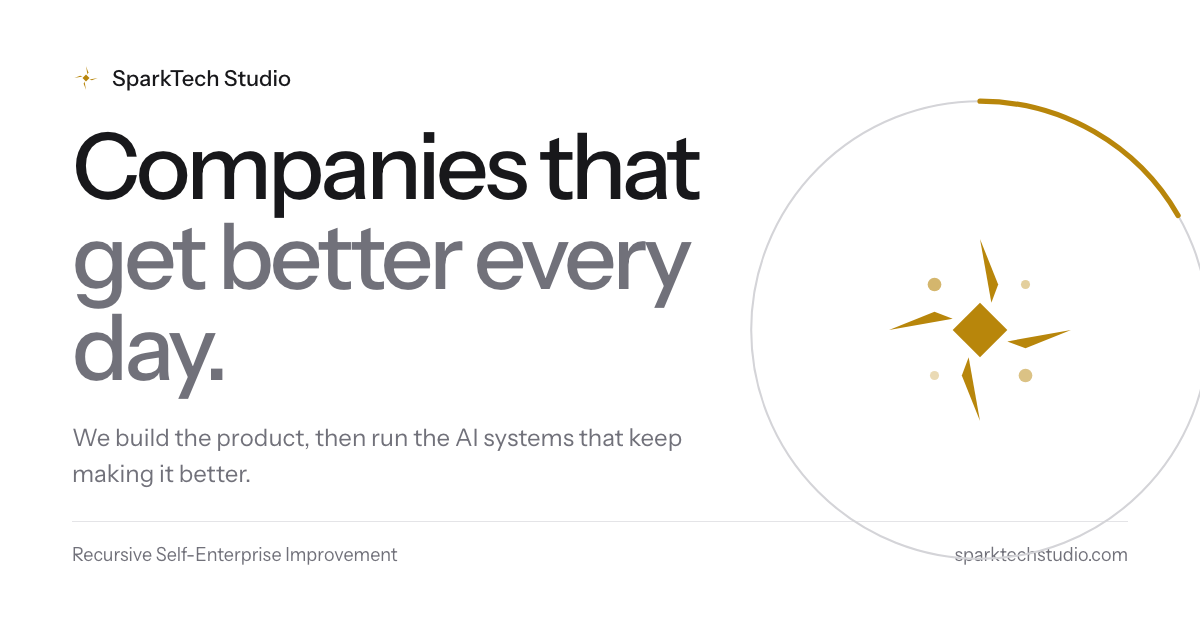
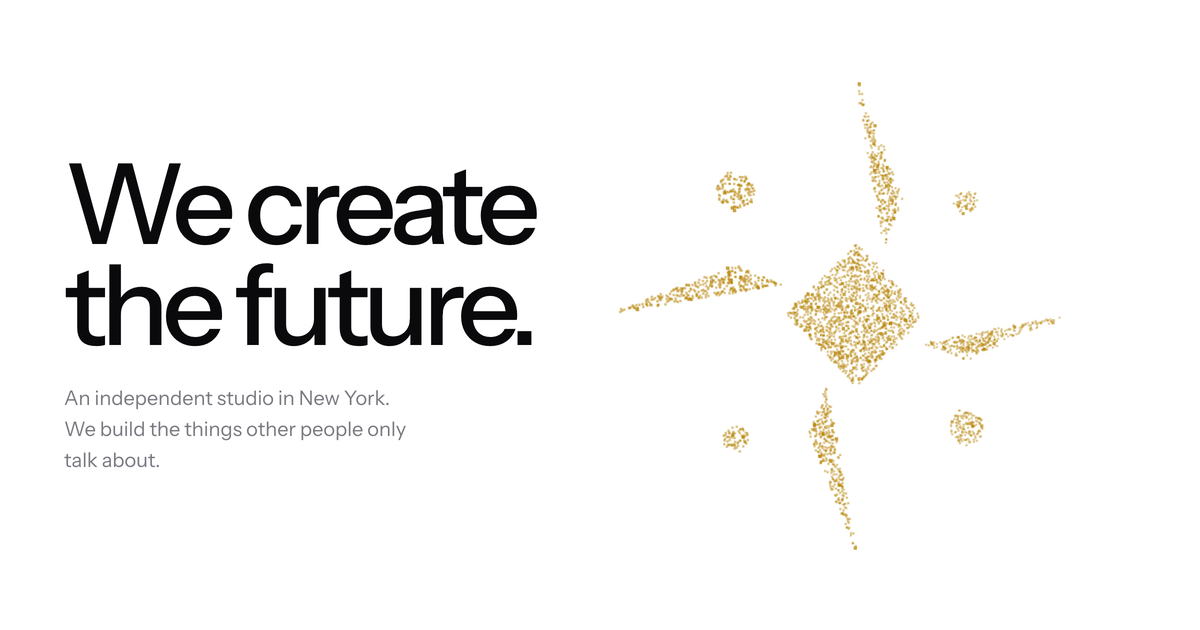
Set the legal name, regenerate the share card, and match Leed and BallotWatch spellings
Copyright lines and the Organization JSON-LD now name SparkTech Studios, Inc.
The share card is captured from the live hero. Leed and BallotWatch are spelled
the way their own sites spell them. UTern's coming item reads "Applications,
sent once you approve them", in line with its live site.

diff --git a/src/designs/content.jsx b/src/designs/content.jsx
@@ -13,25 +13,25 @@ export const companies = [
     lede: 'Birdee, UTern’s AI, finds students real internships that fit and brings companies the students who fit their role. Companies see evidence, never scores.',
     visionTitle: <>The climb, <em>start to summit.</em></>,
     today: ['Only the internships that fit you', 'Everything you do becomes a skill', 'Prove it in a conversation with Birdee', 'Apply with Birdee, side by side', 'Just graduated? Full-time roles too', 'Companies come to you. You say yes before they see you'],
-    vision: ['Classes, handled', 'Paid projects, for credit', 'Applications, sent for you', 'Hire from real work, any role', 'One view for the career office', 'Your transcript, read'],
+    vision: ['Classes, handled', 'Paid projects, for credit', 'Applications, sent once you approve them', 'Hire from real work, any role', 'One view for the career office', 'Your transcript, read'],
     visual: 'climb', note: 'UTern is an independent company. Coming items are the vision, not shipped features.',
   },
   {
-    slug: 'leed', name: 'LEED', host: 'leed.media', url: 'https://www.leed.media', line: 'Every tip, read and kept safe.',
+    slug: 'leed', name: 'Leed', host: 'leed.media', url: 'https://www.leed.media', line: 'Every tip, read and kept safe.',
     theme: { '--c-bg': '#0b0b09', '--c-accent': '#e9e4d6', '--c-mute': 'rgba(240,236,226,.6)' },
-    bg: '/work/leed/newsrooms.webp', figure: '/work/leed/sherlock.svg', figureAlt: 'Sherlock, LEED’s desk agent', figureClass: 'is-sherlock',
+    bg: '/work/leed/newsrooms.webp', figure: '/work/leed/sherlock.svg', figureAlt: 'Sherlock, Leed’s desk agent', figureClass: 'is-sherlock',
     kicker: 'A private story-intelligence desk for newsrooms',
     value: <>Every tip your newsroom gets, <em>read, sorted, and kept safe.</em></>,
-    lede: 'Tips land everywhere: inboxes, DMs, voicemail. LEED pulls them into one private desk, groups the ones about the same story, and keeps every source sealed until they say yes.',
+    lede: 'Tips land everywhere: inboxes, DMs, voicemail. Leed pulls them into one private desk, groups the ones about the same story, and keeps every source sealed until they say yes.',
     visionTitle: <>Scattered tips. <em>One private desk.</em></>,
     today: ['Sources send tips through a guided chat. No account, no name', 'AI turns every tip into a brief: the claim, how to check it, the risk to the source', 'Tips about the same story get grouped, so you see the pattern first', 'Reporters can ask to talk. The source says yes or no, and their name stays sealed until yes', 'Sherlock, the AI desk agent, ranks what moved overnight. It never contacts a source', 'One private workspace per newsroom, and a morning brief'],
     vision: ['Duplicate stories merged automatically', 'A mobile desk for reporters'],
     visual: 'signals',
   },
   {
-    slug: 'ballotwatch', name: 'Ballot Watch', host: 'ballotwatch.io', url: 'https://www.ballotwatch.io', line: 'How Congress votes, in plain English.',
+    slug: 'ballotwatch', name: 'BallotWatch', host: 'ballotwatch.io', url: 'https://www.ballotwatch.io', line: 'How Congress votes, in plain English.',
     theme: { '--c-bg': '#0c1626', '--c-accent': '#c9a85c', '--c-scrim': 'linear-gradient(90deg, rgba(9,18,34,.9) 0%, rgba(9,18,34,.55) 50%, rgba(9,18,34,.75) 100%)' },
-    bg: '/work/ballotwatch/hero-capitol.jpg', figure: '/work/ballotwatch/capitol-logo.svg', figureAlt: 'Ballot Watch capitol mark', figureClass: 'is-mark',
+    bg: '/work/ballotwatch/hero-capitol.jpg', figure: '/work/ballotwatch/capitol-logo.svg', figureAlt: 'BallotWatch capitol mark', figureClass: 'is-mark',
     kicker: 'How did your representative vote this week?',
     value: <>See how Congress votes. <em>Every fact linked to its official source.</em></>,
     lede: 'Look up your senators and representative, see every vote they cast, and read bills in plain English.',

diff --git a/index.html b/index.html
@@ -14,12 +14,12 @@
     <meta property="og:type" content="website" />
     <meta property="og:site_name" content="SparkTech Studio" />
     <meta property="og:title" content="SparkTech Studio | We create the future" />
-    <meta property="og:description" content="We create the future. An independent studio in New York building UTern, LEED, Ballot Watch, Spacial Health, and Budtender." />
+    <meta property="og:description" content="We create the future. An independent studio in New York building UTern, Leed, BallotWatch, Spacial Health, and Budtender." />
     <meta property="og:url" content="https://www.sparktechstudio.com/" />
     <!-- The ?v= suffix busts the social caches, which key on the image URL and
          would otherwise keep serving the old card indefinitely. Bump it any
          time og.png is regenerated. -->
-    <meta property="og:image" content="https://www.sparktechstudio.com/og.png?v=8" />
+    <meta property="og:image" content="https://www.sparktechstudio.com/og.png?v=9" />
     <meta property="og:image:width" content="1200" />
     <meta property="og:image:height" content="630" />
     <meta name="twitter:card" content="summary_large_image" />
@@ -30,7 +30,7 @@
   <body>
     <div id="root"></div>
     <script type="application/ld+json">
-    {"@context":"https://schema.org","@type":"Organization","name":"SparkTech Studio","url":"https://www.sparktechstudio.com","logo":"https://www.sparktechstudio.com/logo.png","email":"contactus@sparktechstudio.com","address":{"@type":"PostalAddress","addressLocality":"New York","addressCountry":"US"},"founder":{"@type":"Person","name":"Spencer Hoberman"},"slogan":"We create the future.","sameAs":["https://github.com/Shoberman2"]}
+    {"@context":"https://schema.org","@type":"Organization","name":"SparkTech Studio","legalName":"SparkTech Studios, Inc.","url":"https://www.sparktechstudio.com","logo":"https://www.sparktechstudio.com/logo.png","email":"contactus@sparktechstudio.com","address":{"@type":"PostalAddress","addressLocality":"New York","addressCountry":"US"},"founder":{"@type":"Person","name":"Spencer Hoberman"},"slogan":"We create the future.","sameAs":["https://github.com/Shoberman2"]}
     </script>
     <script type="module" src="/src/main.jsx"></script>
   </body>

diff --git a/src/designs/Company.jsx b/src/designs/Company.jsx
@@ -64,7 +64,7 @@ function ClimbDots({ path, pts, steps }) {
   return <g ref={g}>{steps.map(([t, done], i) => <circle key={t} r={done ? 5 : 6} className={done ? 'cl-done' : 'cl-next'} style={{ '--i': i }} />)}</g>
 }
 
-// LEED: scattered newsrooms send tips along curves into a few story clusters that brighten as leads arrive.
+// Leed: scattered newsrooms send tips along curves into a few story clusters that brighten as leads arrive.
 function setupSignals(ctx) {
   const rnd = (a => () => (a = (a * 16807) % 2147483647) / 2147483647)(7)
   const rooms = Array.from({ length: 46 }, () => ({ x: .04 + rnd() * .62, y: .1 + rnd() * .8, p: rnd() * 6 }))
@@ -171,6 +171,6 @@ export default function Company({ slug }) {
     <nav className="co-others" aria-label="More work">
       {companies.filter(x => x.slug !== slug).map(x => <a key={x.slug} href={`/work/${x.slug}`}><strong>{x.name}</strong><span>{x.line}</span></a>)}
     </nav>
-    <footer className="co-foot"><a href={`mailto:${EMAIL}`}>{EMAIL}</a><span>© {year} SparkTech Studio. A Delaware C corporation.</span></footer>
+    <footer className="co-foot"><a href={`mailto:${EMAIL}`}>{EMAIL}</a><span>© {year} SparkTech Studios, Inc.</span></footer>
   </div>
 }

diff --git a/src/designs/Form.jsx b/src/designs/Form.jsx
@@ -153,7 +153,7 @@ export default function Form() {
         <nav aria-label="Work"><h4>Work</h4>{built.map(b => <a key={b.slug} href={b.url}>{b.name}</a>)}</nav>
         <nav aria-label="Elsewhere"><h4>Elsewhere</h4><a href={`mailto:${EMAIL}`}>Email</a><a href="https://github.com/Shoberman2" target="_blank" rel="noreferrer">GitHub</a></nav>
       </div>
-      <div className="fm-foot-bottom"><span>© {year} SparkTech Studio. A Delaware C corporation.</span><span>New York</span></div>
+      <div className="fm-foot-bottom"><span>© {year} SparkTech Studios, Inc.</span><span>New York</span></div>
     </footer>
   </div>
 }

diff --git a/src/designs/Liquid.jsx b/src/designs/Liquid.jsx
@@ -93,6 +93,6 @@ export default function Liquid() {
       <p className="lq-label">Next</p>
       <a className="lq-email" href={`mailto:${EMAIL}`}>{EMAIL}</a>
     </section>
-    <footer className="lq-foot"><span>© {year} SparkTech Studios, LLC</span><span>We create the future.</span></footer>
+    <footer className="lq-foot"><span>© {year} SparkTech Studios, Inc.</span><span>We create the future.</span></footer>
   </div>
 }

diff --git a/src/designs/Contour.jsx b/src/designs/Contour.jsx
@@ -100,7 +100,7 @@ export default function Contour() {
     </main>
     <footer className="ct-foot" id="contact">
       <a className="ct-email" href={`mailto:${EMAIL}`}>{EMAIL}</a>
-      <span>© {year} SparkTech Studios, LLC</span>
+      <span>© {year} SparkTech Studios, Inc.</span>
     </footer>
   </div>
 }

diff --git a/CLAUDE.md b/CLAUDE.md
@@ -25,7 +25,7 @@ Present this as the operating model and direction. Do not claim that all workflo
 ## Companies and factual boundaries
 
 - **UTern is NOT owned by SparkTech.** It is an outside company intended to use the systems.
-- **LEED** (verified repository spelling; voice transcription said LEAD; existing site link `https://www.leed.media`) and **Ballot Watch** are part of the intended adoption direction. Do not infer or assert ownership.
+- **Leed** and **BallotWatch** (spellings chosen by the user on 2026-10-16 to match the live sites; earlier notes said LEED and Ballot Watch) are part of the intended adoption direction. Do not infer or assert ownership.
 - Future associated companies and outside companies may follow the model. Shared systems do not imply shared company data or ownership.
 - No fabricated numbers, testimonials, titles, team headcounts, guaranteed outcomes, or claims that these integrations are live.
 
@@ -54,7 +54,7 @@ Present this as the operating model and direction. Do not claim that all workflo
 - Older components and assets remain on disk, including the animated logo, intro, Sisyphus video, and generated sculpture. They are not mounted by the new operating-model site. Do not delete them as incidental cleanup.
 - `src/data/projects.js` remains historical product data, not an ownership register or evidence that system integrations are live. The new site uses the specifically requested companies, with explicit intended-adoption language.
 - `public/logo.svg` is the spark mark. `public/og.png` is the current 1200×630 share card; bump `?v=` in `index.html` when regenerated.
-- Brand remains **SparkTech Studio**, singular. Copyright line reads "SparkTech Studio. A Delaware C corporation." (user, 2026-10-16: the studio is now a Delaware C corp; the exact corporate name was not given, so do not print one until he supplies it. The earlier LLC name is retired from the site.)
+- Brand remains **SparkTech Studio**, singular. Legal entity is **SparkTech Studios, Inc.**, a Delaware C corporation (user, 2026-10-16). Copyright lines and JSON-LD use that name; the earlier LLC name is retired.
 - No invented team, metrics, testimonials, client ownership, active integrations, or guaranteed perfect autonomy. No social posting or account changes authorized by the website task.
 - Founder section (2026-09-11): the user asked for the site to say who he is. One About section, first person, facts only: Spencer Hoberman, founder of SparkTech Studio, New York, building the first pilot, also builds UTern which stays independent. No credentials, employers, ages, or photos unless he supplies them. Everything else on the page stays in studio voice.
 

diff --git a/DESIGN.md b/DESIGN.md
@@ -14,7 +14,7 @@ User feedback on the ninth pass, minutes after seeing it: "it still has most of 
 - Companies: three big-type rows (44px names, mono hostnames, one-liner, status, circular arrow). Hover turns the name gold and fills the arrow.
 - About keeps its content in a 5/7 split. Contact is left-aligned giant type (up to 176px) with a ruled row beneath. Footer unchanged.
 - Nav: white with blur, 2px gold read-progress line, and a scroll-spy on the home page that underlines the section in view. Route changes still crossfade through the View Transitions API. Reduced motion shows the finished state everywhere.
-- `public/og.png` is still the eighth-pass card and should be regenerated. The favicon is the cropped `public/favicon.svg` (10 10 28 28), with PNGs and the `.ico` rebuilt from it; `logo.svg` keeps the full mark for the nav.
+- `public/og.png` was regenerated on 2026-10-16 from the live Form hero (white, 'We create the future.', the gold spark cloud), `?v=9`. The favicon is the cropped `public/favicon.svg` (10 10 28 28), with PNGs and the `.ico` rebuilt from it; `logo.svg` keeps the full mark for the nav.
 
 ### Concise pass (2026-09-17, same day)
 User: "It looks better but I want it more concise, and minimal. Make it really stand out." Copy cut roughly in half and everything that repeated something else removed. Hero fills the first viewport (type up to 150px) with the track on its bottom edge; one sentence, one button, one text link. Every section opens with a giant heading row (h2 up to 88px, lead bottom-right). The idea is one statement and two lines; the stage chain is gone (the track already shows it). Cards are 240px with one-line copy. Workflows drop the sticky side for a heading row and one-line rows, status line beneath. Company one-liners are one clause. About is a lead and one paragraph. The nav progress bar is gone; the left frame line fills gold as you read instead. Footer is three columns.
